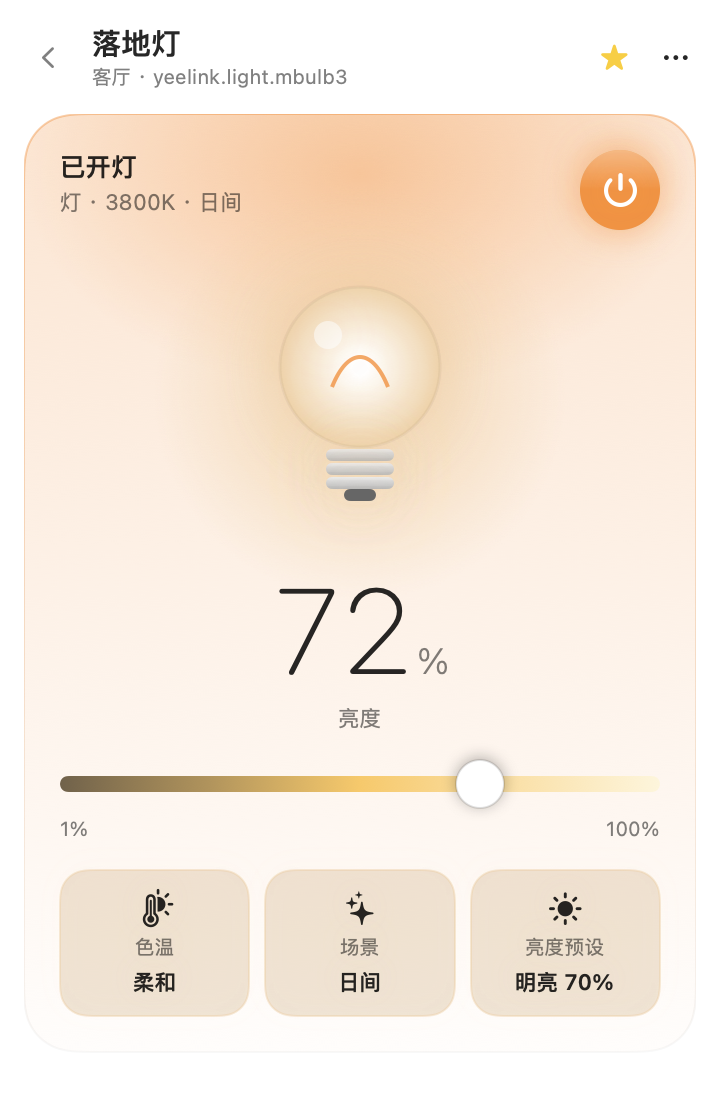
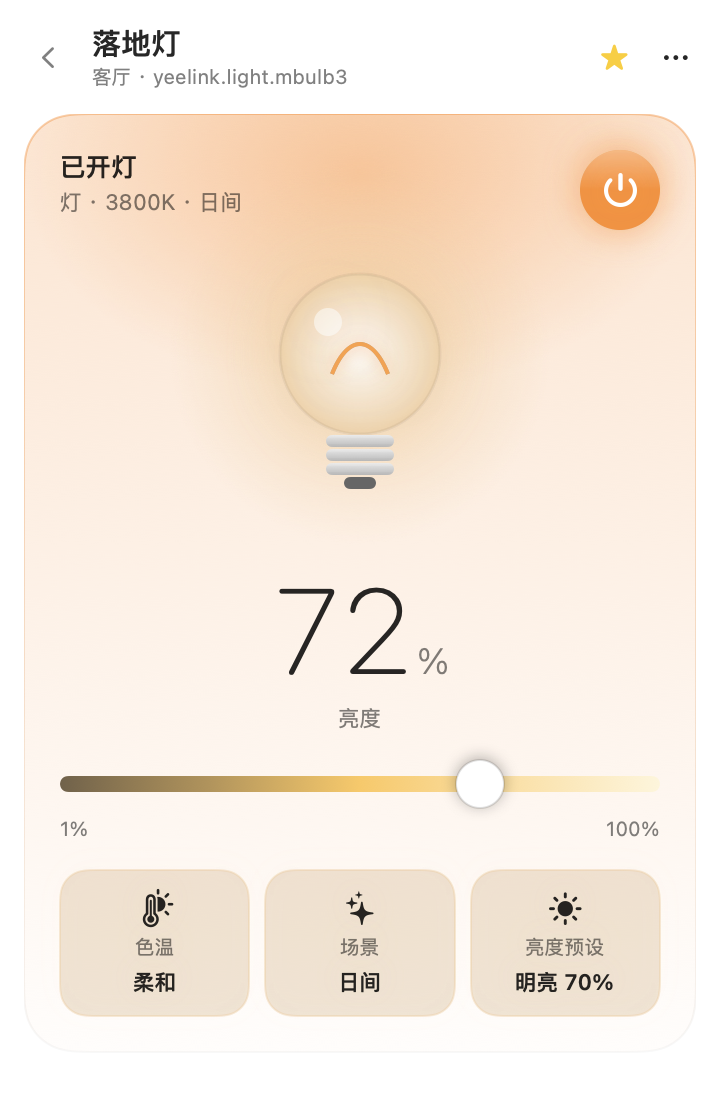
Redo fan, bulb and plug illustrations; fix plug animation CPU cost
Fan
- The pole now runs up to the motor at the hub, so the head stays
  attached to the stand (it used to float above a pole that stopped short)
- Blades spin up when switched on and coast down when switched off,
  with continuous position and velocity (interruptible), instead of
  jumping between spinning and a fixed angle
- Spin speed follows the fan level; at high speed the blades turn
  translucent over a faint disc, so speed reads even in a still image
- Oscillation eases in and out instead of starting/stopping abruptly
- Reduce Motion: static blades and no oscillation

Bulb
- Glow is centered on the glass (it was centered on glass + base), and
  its size and strength follow brightness
- Turning on fades in with Motion.enter, turning off is faster
  (Motion.exit); glass and filament cross-fade instead of snapping

Plug
- A plug sits in the socket and the cable leads from it to the load,
  instead of starting from the middle of the socket face; indicator light
  moved to the top of the plate where the cable can't cover it
- Current flow speed and brightness follow power (log scale), and fade
  out when switched off
- dashPhase was -t*speed with t in seconds since 2001 (~1e9), which made
  Core Graphics very slow every frame: recording the plug page captured
  10 frames in 9 s. It now cycles within one dash period (133 frames)

Tooling
- `--gif <path> --scene fan|light|plug` records each device's state
  animation for frame-by-frame review (default scene stays `ac`)
[…]

Changed region(s): [[0.4583, 0.375, 0.55, 0.4688], [0.4278, 0.2812, 0.55, 0.3438]]

diff --git a/Sources/MijiaBarApp/Art.swift b/Sources/MijiaBarApp/Art.swift
@@ -20,97 +20,184 @@ func Glow(_ color: Color, _ opacity: Double, diameter d: CGFloat, softness s: CG
             .frame(width: 2 * r, height: 2 * r))
 }
 
-/// 落地扇：叶片转速跟随风速，摆头时左右摇摆
+/// 速度的平滑过渡：从当前速度按指数曲线接近目标速度，位置连续、速度连续（可随时被新目标打断）。
+/// 用来做风扇启动加速、关机滑行，以及摆头幅度的渐入渐出。
+struct Ramp {
+    var t0 = 0.0, p0 = 0.0, v0 = 0.0, v1 = 0.0, tau = 0.5
+    func velocity(_ t: Double) -> Double { v1 + (v0 - v1) * exp(-max(0, t - t0) / tau) }
+    func position(_ t: Double) -> Double { let d = max(0, t - t0); return p0 + v1 * d + (v0 - v1) * tau * (1 - exp(-d / tau)) }
+    /// 从 t 时刻的当前状态出发，换一个目标速度
+    mutating func retarget(_ v: Double, at t: Double, tau: Double) { p0 = position(t); v0 = velocity(t); v1 = v; t0 = t; self.tau = tau }
+    /// 直接处于目标速度（页面刚打开时用，不播放启动过程）
+    mutating func jump(_ v: Double, at t: Double) { p0 = position(t); v0 = v; v1 = v; t0 = t }
+    func settled(_ t: Double) -> Bool { abs(velocity(t) - v1) < 1 }
+}
+
+/// 落地扇：开机时叶片加速，关机时滑行减速；转速跟随风速，高速时叶片变虚成一个转盘；摆头时扇头左右转动。
+/// 灯杆一直连到扇头中心的电机，扇头摆动时也不会和底座脱开。
 struct FanArt: View {
     let on: Bool, level: Double, swing: Bool, tint: Color
     @Environment(\.accessibilityReduceMotion) private var reduceMotion
+    @State private var spin = Ramp()
+    @State private var sway = Ramp()     // 这里 position 不用，velocity 当作摆头幅度 0…1
+    @State private var moving = false
+
+    var speed: Double { on ? 200 + 900 * level : 0 }   // 度/秒
+    static let hub = CGPoint(x: 70, y: 50)
+
     var body: some View {
-        TimelineView(.animation(paused: reduceMotion || !on)) { tl in
+        TimelineView(.animation(paused: reduceMotion || !moving)) { tl in
             let t = tl.date.timeIntervalSinceReferenceDate
-            let spin = on ? (t * (200 + 900 * level)).truncatingRemainder(dividingBy: 360) : 20
-            let yaw = on && swing && !reduceMotion ? sin(t * 0.9) * 28 : 0
+            let v = reduceMotion ? speed : spin.velocity(t)
+            let angle = reduceMotion ? 20 : spin.position(t)
+            let amp = reduceMotion ? 0 : sway.velocity(t)
+            let yaw = amp * sin(t * 0.9) * 28
+            let blur = min(1, v / 1100)          // 转得越快叶片越虚
             ZStack {
-                VStack(spacing: 0) {
-                    Spacer()
-                    RoundedRectangle(cornerRadius: 3).fill(metal).frame(width: 8, height: 46)
-                    Capsule().fill(metal).frame(width: 74, height: 12).shadow(color: .black.opacity(0.15), radius: 2, y: 1)
-                }
-                ZStack {
-                    Circle().fill(Color.primary.opacity(0.05))
-                    ForEach(0..<3, id: \.self) { i in
-                        Ellipse()
-                            .fill(LinearGradient(colors: [tint.opacity(on ? 0.95 : 0.35), tint.opacity(on ? 0.55 : 0.2)], startPoint: .top, endPoint: .bottom))
-                            .frame(width: 26, height: 40).offset(y: -21)
-                            .rotationEffect(.degrees(Double(i) * 120 + spin))
-                    }
-                    ForEach(0..<16, id: \.self) { i in
-                        Rectangle().fill(Color.primary.opacity(0.18)).frame(width: 1, height: 92).rotationEffect(.degrees(Double(i) * 11.25))
-                    }
-                    Circle().stroke(Color(white: 0.6), lineWidth: 3)
-                    Circle().fill(metal).frame(width: 16, height: 16).shadow(radius: 1)
-                }
-                .frame(width: 92, height: 92)
-                .scaleEffect(x: cos(yaw * .pi / 180), y: 1)   // 用水平压缩模拟摆头（rotation3DEffect 在截图里位置会错）
-                .offset(y: -18)
+                // 底座和灯杆：灯杆一直通到电机（扇头中心）
+                Capsule().fill(metal).frame(width: 72, height: 12).shadow(color: .black.opacity(0.15), radius: 2, y: 1)
+                    .position(x: 70, y: 124)
+                RoundedRectangle(cornerRadius: 3).fill(metal).frame(width: 8, height: 124 - Self.hub.y)
+                    .position(x: 70, y: (124 + Self.hub.y) / 2)
+                head(angle: angle, blur: blur)
+                    .scaleEffect(x: cos(yaw * .pi / 180), y: 1)   // 2D 模拟转向（rotation3DEffect 在截图里位置会错）
+                    .position(Self.hub)
             }
             .frame(width: 140, height: 136)
-            .scaleEffect(on ? 1 : 0.97)
         }
+        .onAppear { let t = now; spin.jump(speed, at: t); sway.jump(swing && on ? 1 : 0, at: t); moving = on }
+        .onChange(of: speed) { _, v in
+            // 加速快、滑行慢：像真的电机一样
+            spin.retarget(v, at: now, tau: v > spin.velocity(now) ? 0.45 : 0.8)
+            settle()
+        }
+        .onChange(of: swing && on) { _, s in sway.retarget(s ? 1 : 0, at: now, tau: 0.5); settle() }
+        .animation(Motion.smooth, value: on)
+    }
+
+    var now: Double { Date().timeIntervalSinceReferenceDate }
+
+    /// 有东西在动就让 TimelineView 跑起来；关机后等滑行结束再停
+    func settle() {
+        moving = true
+        guard !on else { return }
+        Task { @MainActor in
+            try? await Task.sleep(nanoseconds: 4_000_000_000)
+            // 读 @State 里的当前目标，而不是闭包捕获的旧 on：期间又开机了就继续转
+            if spin.v1 == 0, sway.v1 == 0, spin.settled(now) { moving = false }
+        }
+    }
+
+    func head(angle: Double, blur: Double) -> some View {
+        ZStack {
+            Circle().fill(Color.primary.opacity(0.05))
+            Circle().fill(Color(white: 0.55)).frame(width: 28, height: 28)          // 电机
+            Circle().fill(tint.opacity(on ? 0.25 * blur : 0))                       // 高速时的转盘残影
+            ForEach(0..<3, id: \.self) { i in
+                Ellipse()
+                    .fill(LinearGradient(colors: [tint.opacity(on ? 0.95 : 0.4), tint.opacity(on ? 0.55 : 0.22)], startPoint: .top, endPoint: .bottom))
+                    .frame(width: 26, height: 40).offset(y: -21)
+                    .rotationEffect(.degrees(Double(i) * 120 + angle))
+                    .opacity(1 - 0.55 * blur)
+            }
+            ForEach(0..<16, id: \.self) { i in
+                Rectangle().fill(Color.primary.opacity(0.16)).frame(width: 1, height: 92).rotationEffect(.degrees(Double(i) * 11.25))
+            }
+            Circle().stroke(Color(white: 0.6), lineWidth: 3)
+            Circle().fill(metal).frame(width: 16, height: 16).shadow(radius: 1)
+        }
+        .frame(width: 92, height: 92)
     }
 }
 
-/// 灯泡：亮度决定光晕，色温决定颜色
+/// 灯泡：亮度决定光晕的大小和强度，色温决定颜色。开灯时光亮渐入，关灯时更快熄灭；没有循环动画。
 struct BulbArt: View {
     let on: Bool, brightness: Double, kelvin: Double?
     var body: some View {
         let col = kelvinColor(kelvin ?? 3500)
+        let b = on ? max(0.15, brightness) : 0           // 开着时至少有一点光
         ZStack {
-            Glow(col, on ? 0.55 * brightness : 0, diameter: 150, softness: 28)
-            VStack(spacing: 0) {
-                ZStack {
-                    Circle().fill(on ? AnyShapeStyle(RadialGradient(colors: [Color.white, col], center: .center, startRadius: 4, endRadius: 46))
-                                     : AnyShapeStyle(Color.primary.opacity(0.08)))
-                    Circle().stroke(Color.primary.opacity(on ? 0.05 : 0.25), lineWidth: 1.5)
-                    Path { p in p.move(to: CGPoint(x: 26, y: 50)); p.addCurve(to: CGPoint(x: 54, y: 50), control1: CGPoint(x: 34, y: 30), control2: CGPoint(x: 46, y: 30)) }
-                        .stroke(on ? Color.orange.opacity(0.8) : Color.secondary.opacity(0.6), lineWidth: 2)
-                    Circle().fill(Color.white.opacity(0.5)).frame(width: 14, height: 14).offset(x: -16, y: -16)
-                }.frame(width: 80, height: 80)
-                ForEach(0..<3, id: \.self) { _ in Capsule().fill(metal).frame(width: 34, height: 6).padding(.top, 1) }
+            // 光晕以玻璃泡为中心
+            Glow(col, 0.6 * b, diameter: 80 + 70 * b, softness: 30).position(x: 70, y: 48)
+            ZStack {
+                Circle().fill(Color.primary.opacity(0.07))
+                Circle().fill(RadialGradient(colors: [Color.white, col], center: .center, startRadius: 4, endRadius: 46)).opacity(b > 0 ? 0.4 + 0.6 * b : 0)
+                Circle().stroke(Color.primary.opacity(on ? 0.06 : 0.25), lineWidth: 1.5)
+                filament.stroke(Color.secondary.opacity(0.6), lineWidth: 2)
+                filament.stroke(Color(red: 1, green: 0.62, blue: 0.25), lineWidth: 2).opacity(on ? 1 : 0)
+                    .shadow(color: on ? Color.orange.opacity(0.8 * b) : .clear, radius: 4)
+                Circle().fill(Color.white.opacity(0.5)).frame(width: 14, height: 14).offset(x: -16, y: -16)
+            }
+            .frame(width: 80, height: 80)
+            .shadow(color: col.opacity(0.7 * b), radius: 16)
+            .position(x: 70, y: 48)
+            // 灯座
+            VStack(spacing: 1) {
+                ForEach(0..<3, id: \.self) { _ in Capsule().fill(metal).frame(width: 34, height: 6) }
                 Capsule().fill(Color(white: 0.4)).frame(width: 16, height: 6)
             }
-            .shadow(color: on ? col.opacity(0.7) : .clear, radius: 16)
+            .position(x: 70, y: 88 + 14)
         }
+        .frame(width: 140, height: 136)
+        .animation(on ? Motion.enter : Motion.exit, value: on)
         .animation(Motion.smooth, value: brightness)
-        .animation(Motion.smooth, value: on)
         .animation(Motion.smooth, value: kelvin)
+    }
+
+    var filament: Path {
+        Path { p in p.move(to: CGPoint(x: 26, y: 50)); p.addCurve(to: CGPoint(x: 54, y: 50), control1: CGPoint(x: 34, y: 30), control2: CGPoint(x: 46, y: 30)) }
     }
 }
 
-/// 插座：通电时电流沿电线流动
+/// 插座：插头插在面板上，电线通向用电器（闪电）。通电时指示灯亮、电流沿电线流动，功率越大流得越快越亮；断电后电流消失。
 struct PlugArt: View {
     let on: Bool, watts: Double?, tint: Color
     @Environment(\.accessibilityReduceMotion) private var reduceMotion
+
+    /// 0…1：按对数换算功率，几瓦和几千瓦都能看出差别
+    var load: Double { on ? min(1, log10(1 + max(0, watts ?? 0)) / 3.3) : 0 }
+
     var body: some View {
         TimelineView(.animation(paused: reduceMotion || !on)) { tl in
             let t = tl.date.timeIntervalSinceReferenceDate
             ZStack {
-                RoundedRectangle(cornerRadius: 18).fill(metal).frame(width: 82, height: 82)
-                    .overlay(RoundedRectangle(cornerRadius: 18).stroke(Color.black.opacity(0.1)))
-                    .shadow(color: .black.opacity(0.15), radius: 4, y: 2).offset(x: -40)
-                Circle().fill(Color.white.opacity(0.9)).frame(width: 58, height: 58).offset(x: -40)
-                HStack(spacing: 14) { ForEach(0..<2, id: \.self) { _ in Capsule().fill(Color.black.opacity(0.7)).frame(width: 6, height: 16) } }.offset(x: -40)
-                Circle().fill(on ? Color.green : Color.gray.opacity(0.5)).frame(width: 6, height: 6).offset(x: -40, y: 34)
-                Path { p in p.move(to: CGPoint(x: 70, y: 68)); p.addCurve(to: CGPoint(x: 150, y: 100), control1: CGPoint(x: 100, y: 68), control2: CGPoint(x: 110, y: 110)) }
-                    .stroke(Color(white: 0.55), style: StrokeStyle(lineWidth: 6, lineCap: .round))
-                if on {
-                    Path { p in p.move(to: CGPoint(x: 70, y: 68)); p.addCurve(to: CGPoint(x: 150, y: 100), control1: CGPoint(x: 100, y: 68), control2: CGPoint(x: 110, y: 110)) }
-                        .stroke(tint, style: StrokeStyle(lineWidth: 3, lineCap: .round, dash: [6, 10], dashPhase: CGFloat(-t * (20 + min(watts ?? 0, 2000) / 20))))
-                }
-                Image(systemName: "bolt.fill").font(.system(size: 22)).foregroundStyle(on ? tint : Color.secondary.opacity(0.5))
-                    .offset(x: 50, y: -30).shadow(color: on ? tint : .clear, radius: 8)
+                // 面板
+                RoundedRectangle(cornerRadius: 18, style: .continuous).fill(metal).frame(width: 84, height: 84)
+                    .overlay(RoundedRectangle(cornerRadius: 18, style: .continuous).stroke(Color.black.opacity(0.1)))
+                    .shadow(color: .black.opacity(0.15), radius: 4, y: 2)
+                    .position(x: 62, y: 62)
+                Circle().fill(Color.white.opacity(0.85)).frame(width: 60, height: 60).position(x: 62, y: 62)
+                // 指示灯（面板上沿）
+                Capsule().fill(Color.primary.opacity(0.18)).frame(width: 14, height: 4).position(x: 62, y: 28)
+                Capsule().fill(Color.green).frame(width: 14, height: 4).opacity(on ? 1 : 0)
+                    .shadow(color: .green.opacity(on ? 0.9 : 0), radius: 4).position(x: 62, y: 28)
+                // 电线：从插头底部通到右侧的用电器
+                cable.stroke(Color(white: 0.55), style: StrokeStyle(lineWidth: 6, lineCap: .round))
+                // dashPhase 只在一个周期（6+10）内循环：直接用 -t×速度 会是上百亿，Core Graphics 每帧都很慢
+                cable.stroke(tint, style: StrokeStyle(lineWidth: 3, lineCap: .round, dash: [6, 10],
+                                                      dashPhase: reduceMotion ? 0 : CGFloat(16 - (t * (25 + 140 * load)).truncatingRemainder(dividingBy: 16))))
+                    .opacity(on ? 0.45 + 0.55 * load : 0)
+                // 插头（盖在插孔上）
+                RoundedRectangle(cornerRadius: 8, style: .continuous).fill(LinearGradient(colors: [Color(white: 0.98), Color(white: 0.84)], startPoint: .top, endPoint: .bottom))
+                    .frame(width: 32, height: 38)
+                    .overlay(RoundedRectangle(cornerRadius: 8, style: .continuous).stroke(Color.black.opacity(0.12)))
+                    .overlay(Capsule().fill(Color.black.opacity(0.08)).frame(width: 18, height: 3).offset(y: -8))
+                    .shadow(color: .black.opacity(0.18), radius: 3, y: 2)
+                    .position(x: 62, y: 62)
+                // 用电器端
+                Image(systemName: "bolt.fill").font(.system(size: 20)).foregroundStyle(on ? tint : Color.secondary.opacity(0.5))
+                    .shadow(color: on ? tint.opacity(0.4 + 0.6 * load) : .clear, radius: 3 + 7 * load)
+                    .position(x: 196, y: 92)
             }
             .frame(width: 220, height: 136)
         }
+        .animation(on ? Motion.enter : Motion.exit, value: on)
+        .animation(Motion.smooth, value: load)
+    }
+
+    /// 从插头底部出线，向右下绕到用电器
+    var cable: Path {
+        Path { p in p.move(to: CGPoint(x: 62, y: 81)); p.addCurve(to: CGPoint(x: 182, y: 92), control1: CGPoint(x: 62, y: 128), control2: CGPoint(x: 140, y: 92)) }
     }
 }
 

diff --git a/Sources/MijiaBarApp/Snapshot.swift b/Sources/MijiaBarApp/Snapshot.swift
@@ -147,7 +147,8 @@ enum Snapshot {
     }
 
     /// 录一段空调卡片动画（制冷 → 制热 → 关机 → 开机），README 动图由此生成
-    static func gif(to path: String, fps: Double = 20) {
+    /// scene: ac（默认，README 动图）、fan、light、plug —— 用来逐帧检查各类设备的状态动画
+    static func gif(to path: String, scene: String = "ac", fps: Double = 20) {
         let app = NSApplication.shared
         app.setActivationPolicy(.accessory)
         let m = AppModel(mock: true)
@@ -159,20 +160,32 @@ enum Snapshot {
         win.contentView = host
         win.orderFrontRegardless()
         RunLoop.main.run(until: Date().addingTimeInterval(0.5))
-        guard let d1 = m.device("d1"), let d2 = m.device("d2") else { exit(1) }
+        guard let d1 = m.device("d1"), let d2 = m.device("d2"), let d3 = m.device("d3"), let d4 = m.device("d4"), let d5 = m.device("d5") else { exit(1) }
         // (时间点, 动作)
-        let script: [(Double, () -> Void)] = [
-            (0.4, { m.open(d1) }),
-            (2.6, { m.write(d1, "mode", .string("heat")); m.write(d1, "tar_temp", .int(28)) }),
-            (4.4, { m.write(d1, "ver_swing", .string("off")) }),
-            (5.4, { m.toggle(d1) }),
-            (6.6, { m.toggle(d1) }),
-            (8.2, { m.back() }),
-            (9.2, { m.open(d2) }),
+        let scripts: [String: [(Double, () -> Void)]] = [
+            "ac": [
+                (0.4, { m.open(d1) }),
+                (2.6, { m.write(d1, "mode", .string("heat")); m.write(d1, "tar_temp", .int(28)) }),
+                (4.4, { m.write(d1, "ver_swing", .string("off")) }),
+                (5.4, { m.toggle(d1) }),
+                (6.6, { m.toggle(d1) }),
+                (8.2, { m.back() }),
+                (9.2, { m.open(d2) }),
+            ],
+            // 风扇：开机加速 → 调到最高档 → 停止摆头 → 关机滑行
+            "fan": [(0.4, { m.open(d4) }), (1.2, { m.toggle(d4) }), (3.4, { m.write(d4, "2.2", .int(4)) }),
+                    (5.2, { m.write(d4, "2.4", .bool(false)) }), (6.6, { m.toggle(d4) })],
+            // 灯：调暗 → 冷白 → 关灯 → 开灯
+            "light": [(0.4, { m.open(d3) }), (1.6, { m.write(d3, "2.2", .int(20)) }), (3.0, { m.write(d3, "2.3", .int(6500)) }),
+                      (4.6, { m.toggle(d3) }), (6.2, { m.toggle(d3) })],
+            // 插座：大功率 → 断电 → 通电 → 小功率
+            "plug": [(0.4, { m.open(d5) }), (1.8, { m.write(d5, "11.2", .double(1800)) }), (3.6, { m.toggle(d5) }),
+                     (5.0, { m.toggle(d5) }), (6.6, { m.write(d5, "11.2", .double(3)) })],
         ]
+        guard let script = scripts[scene] else { print("unknown scene \(scene); use ac, fan, light or plug"); exit(1) }
         // 截图本身较慢，按每帧实际耗时写入延迟，回放速度与真实一致
         var frames: [(CGImage, Double)] = []
-        let total = 10.4, start = Date()
+        let total = scene == "ac" ? 10.4 : 9.0, start = Date()
         var next = 0, last = start
         while Date().timeIntervalSince(start) < total {
             while next < script.count, script[next].0 <= Date().timeIntervalSince(start) { script[next].1(); next += 1 }

diff --git a/Sources/MijiaBarApp/Entry.swift b/Sources/MijiaBarApp/Entry.swift
@@ -9,7 +9,8 @@ enum Entry {
         if let i = a.firstIndex(of: "--snapshot"), i + 1 < a.count {
             MainActor.assumeIsolated { Snapshot.run(dir: a[i + 1], liveQR: a.contains("--live-qr")) }
         } else if let i = a.firstIndex(of: "--gif"), i + 1 < a.count {
-            MainActor.assumeIsolated { Snapshot.gif(to: a[i + 1]) }
+            let scene = a.firstIndex(of: "--scene").flatMap { $0 + 1 < a.count ? a[$0 + 1] : nil } ?? "ac"
+            MainActor.assumeIsolated { Snapshot.gif(to: a[i + 1], scene: scene) }
         } else if let i = a.firstIndex(of: "--icon"), i + 1 < a.count {
             MainActor.assumeIsolated { Snapshot.icon(to: a[i + 1]) }
         } else {
